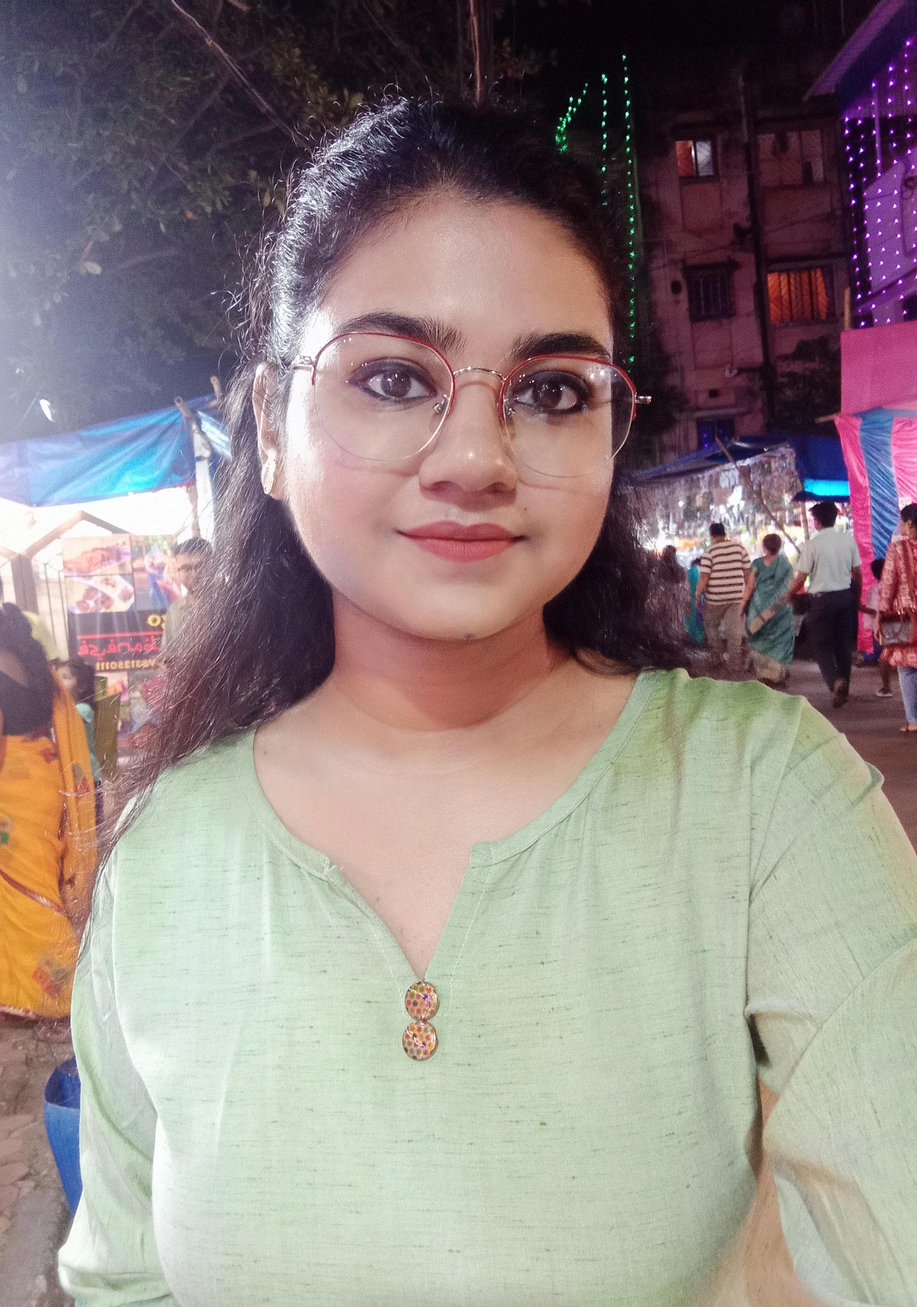
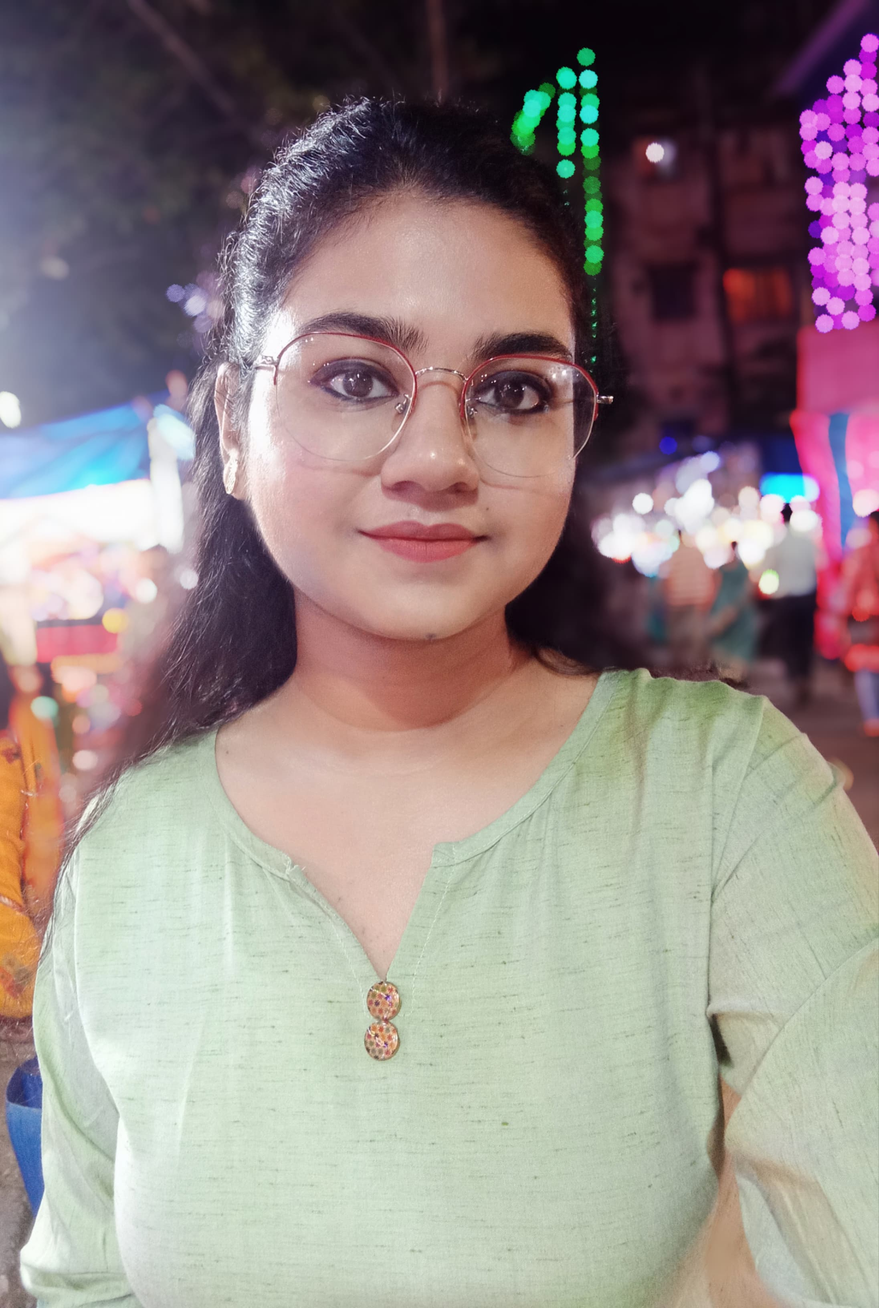
The Team implemented

diff --git a/client/src/components/The Team/TheTeam.jsx b/client/src/components/The Team/TheTeam.jsx
@@ -6,6 +6,7 @@ import debasree from '../../assets/images/debasree.jpg';
 import tatha from '../../assets/images/tatha.jpg';
 import deep from '../../assets/images/deep.jpg';
 import bhargav from '../../assets/images/bhargav.jpg';
+import ishani from '../../assets/images/ishani.jpg';
 
 const teamData = [
     {
@@ -45,6 +46,26 @@ const teamData = [
             { label: "Phone", value: "+91 81011 65244" },
         ]
     },
+    {
+        image: ishani,
+        subHeading: "Backend Developer, BTech IT, University of Calcutta",
+        imageName: "Ishani Sen",
+        intro: "As a passionate BTech student with a strong interest in backend development, I have successfully developed and implemented key backend functionalities using Java Spring Boot, focusing on the Donation and Notification systems.",
+        contribution: [
+            "Handling donation history for user tracking and enabling event-specific donations to support targeted initiatives.",
+            "Implementing mechanisms to retrieve detailed donation records for transparency",
+            "Creating notifications dynamically based on user activities, fetching notifications by ID.",
+            "Adding functionality to mark notifications as read, enhancing user experience."
+        ],
+        socialLinks: [
+            { icon: faLinkedin, href: "https://www.linkedin.com/in/ishani-sen-4157ab225" },
+            { icon: faGithub, href: "https://github.com/IshaniSen2612" },
+        ],
+        infoList: [
+            { label: "Location", value: "Kolkata, India" },
+            { label: "Phone", value: "+91 6291 688 499" },
+        ]
+    }, 
     {
         image: debasree,
         subHeading: "Frontend Developer, BTech IT, University of Calcutta",

diff --git a/client/src/components/Alumni/TeamCard.jsx b/client/src/components/Alumni/TeamCard.jsx
@@ -1,11 +1,6 @@
 import React from "react";
 import { Col, Container, Nav, Row } from "react-bootstrap";
-import {
-    faTwitter,
-    faLinkedin,
-    faGithub,
-    faFacebook,
-} from "@fortawesome/free-brands-svg-icons";
+
 import { FontAwesomeIcon } from "@fortawesome/react-fontawesome";
 import PropTypes from "prop-types";
 import "../../css/alumni.css";
